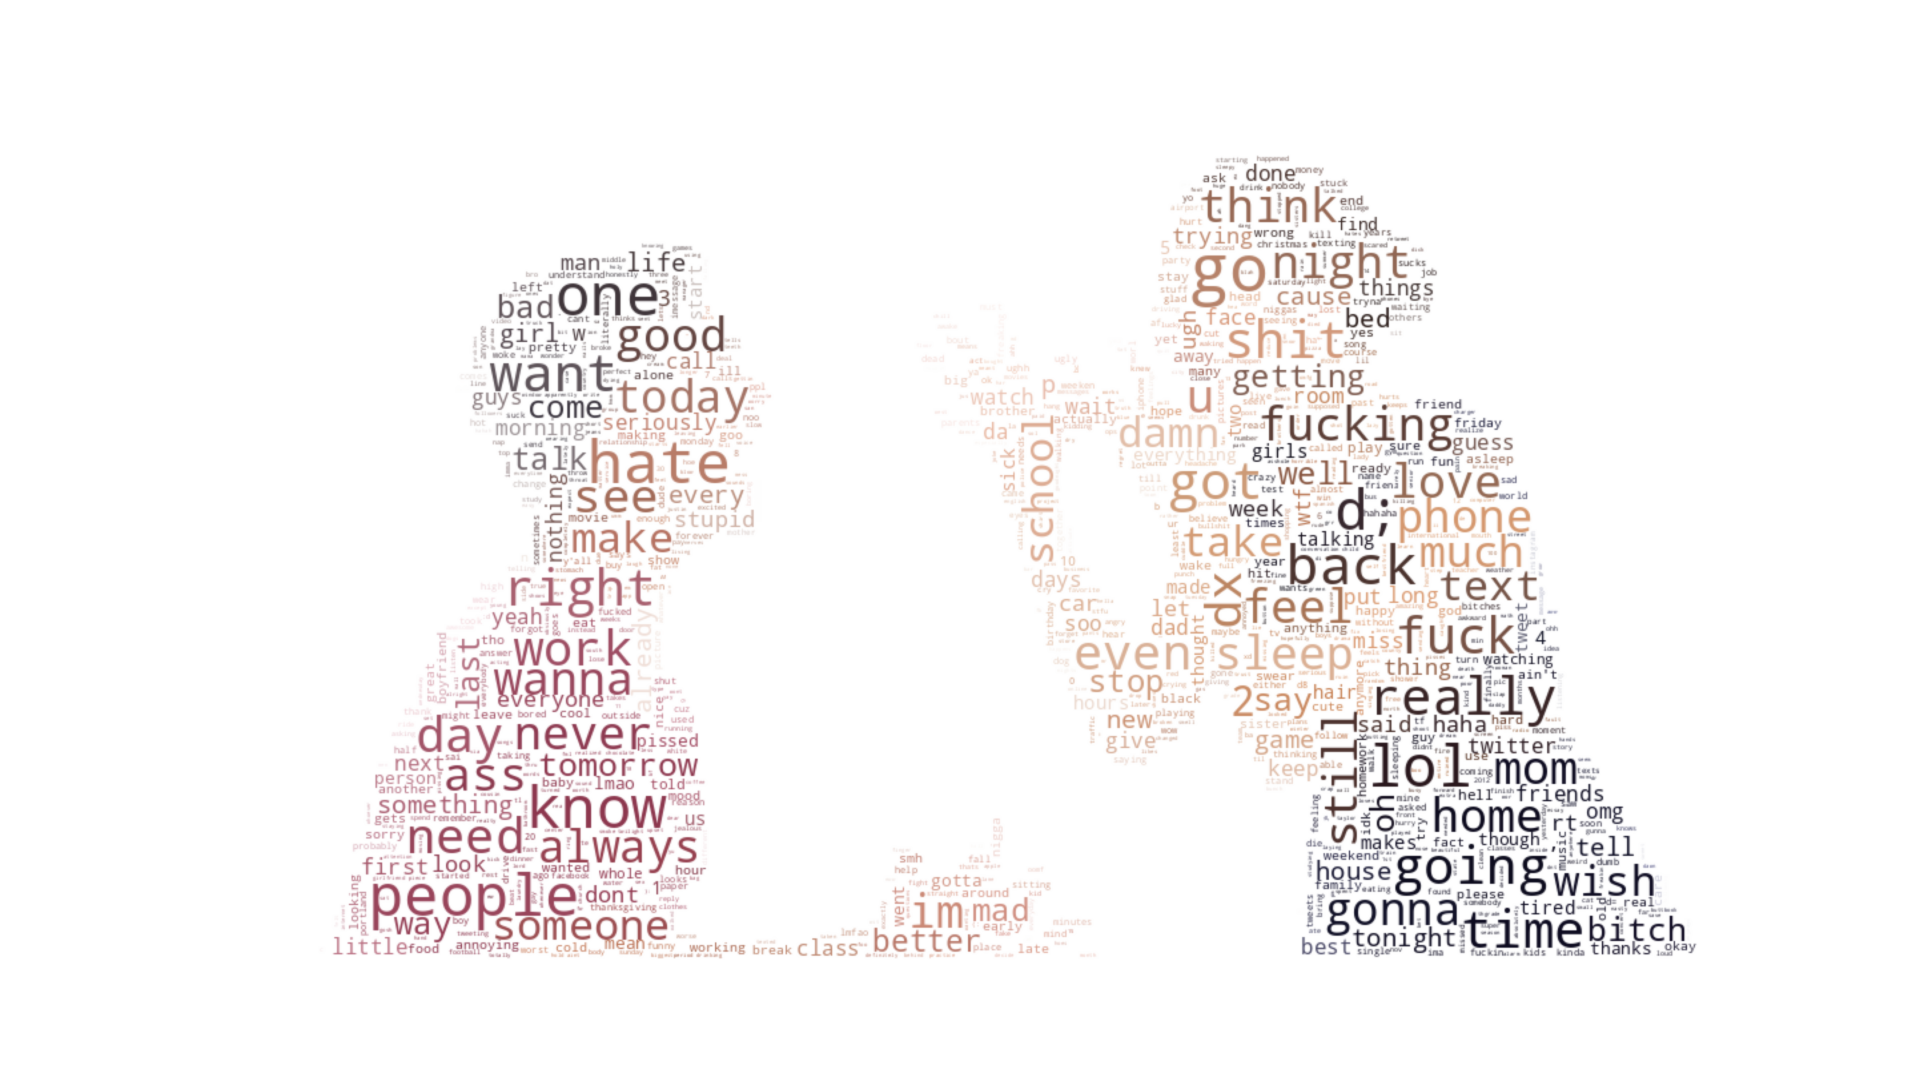
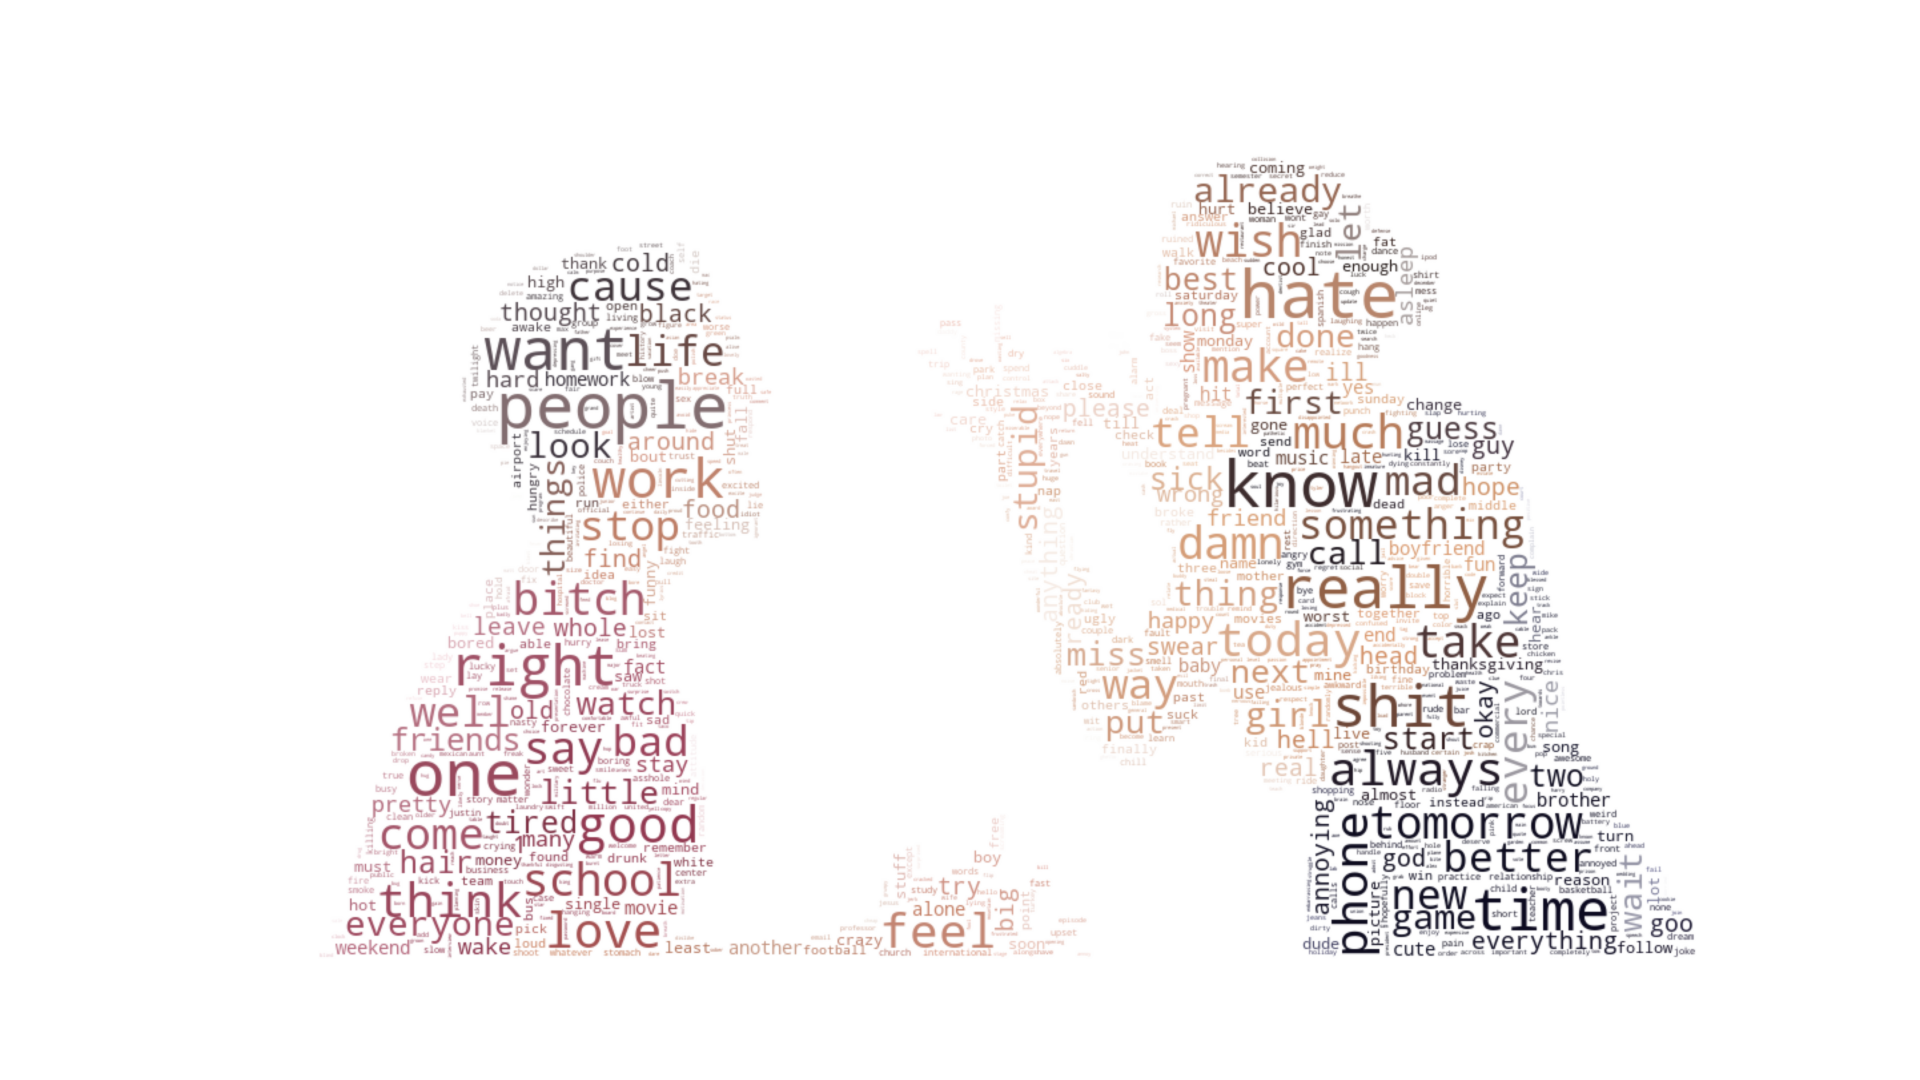
MySQL: optimizations, wordcloud and tests done

Changed region(s): [[0.5, 0.1528, 0.9062, 0.8861], [0.1562, 0.2139, 0.5625, 0.8861]]

diff --git a/src/dao/dao_mysql_db.py b/src/dao/dao_mysql_db.py
@@ -50,6 +50,7 @@ class DaoMySQLDB:
         self.list_new_lexicon = None
         self.list_emojis = None
         self.list_emoticons = None
+        self.list_hashtags = None
 
     def __connect_db(self):
         """
@@ -359,7 +360,7 @@ class DaoMySQLDB:
         Inserts records into 'word' table
         @param tweets: list of tweets
         """
-        # TODO: make one func easy_executemany(query: str, params: list(tuple()), message: str)
+        # TODO: [optional] make one func easy_executemany(query: str, params: list(tuple()), message: str)
         with self.__connect_db() as connection:
             with connection.cursor() as cursor:
                 cursor.execute('SET NAMES utf8mb4')
@@ -391,7 +392,6 @@ class DaoMySQLDB:
 
                 for word in sentiments_words:
                     for index, sentiment in enumerate(sentiments_words[word]):
-                        # TODO: change sentiment from int to string
                         sql_belongs_to_params += [(sentiment + 1, self.list_words[word])]
 
                 print("\n\tBuilding `belongs_to` table...")
@@ -442,7 +442,6 @@ class DaoMySQLDB:
         Inserts records into 'twitter_message' table and relations with 'sentiment' table
         @param sentiments_tweets: set with sentiments as keys and list of tweets as values
         """
-        # TODO: optimize func
         all_tweets = [tweet for sentiment in sentiments_tweets for tweet in sentiments_tweets[sentiment]]
         self.__insert_tweets(all_tweets)
         list_tweets = self.get_tweets_list()
@@ -608,7 +607,6 @@ class DaoMySQLDB:
         Inserts the connection between tweets and tokens
         @param tweets_tokens: {tweet_id: [tokens]...}
         """
-        # TODO: optimize func
         if self.list_words is None:
             self.list_words = self.get_tokens("word")
         if self.list_new_lexicon is None:
@@ -617,12 +615,15 @@ class DaoMySQLDB:
             self.list_emojis = self.get_tokens("emoji")
         if self.list_emoticons is None:
             self.list_emoticons = self.get_tokens("emoticon")
+        if self.list_hashtags is None:
+            self.list_hashtags = self.get_tokens("hashtag")
 
         # data_token = {tweet_id: {token_id: count,...},...}
         data_word = {}
         data_new = {}
         data_emoji = {}
         data_emoticon = {}
+        data_hashtag = {}
 
         for tweet_id in tweets_tokens:
             for token in tweets_tokens[tweet_id]:
@@ -650,6 +651,14 @@ class DaoMySQLDB:
                     else:
                         data_emoticon[tweet_id][self.list_emoticons[token]] += 1
 
+                elif token in self.list_hashtags:
+                    if tweet_id not in data_hashtag or self.list_hashtags[token] not in data_hashtag[tweet_id]:
+                        if tweet_id not in data_hashtag:
+                            data_hashtag[tweet_id] = {}
+                        data_hashtag[tweet_id][self.list_hashtags[token]] = 1
+                    else:
+                        data_hashtag[tweet_id][self.list_hashtags[token]] += 1
+
                 elif token in self.list_new_lexicon:
                     if tweet_id not in data_new or self.list_new_lexicon[token] not in data_new[tweet_id]:
                         if tweet_id not in data_new:
@@ -662,7 +671,8 @@ class DaoMySQLDB:
             "word": data_word,
             "new_lexicon": data_new,
             "emoji": data_emoji,
-            "emoticon": data_emoticon
+            "emoticon": data_emoticon,
+            "hashtag": data_hashtag
         }
         self.insert_tweets_tokens(data_to_insert)
 
@@ -719,6 +729,8 @@ class DaoMySQLDB:
         """
         param = "count" if counts else "freq_perc"
         data = {}
+        if token_type == "words":
+            token_type = "word"
         with self.__connect_db() as connection:
             with connection.cursor() as cursor:
                 sql = f"SELECT `{token_type}`, `{param}` " \
@@ -748,7 +760,6 @@ class DaoMySQLDB:
         @param emoji_datasets: a list of dicts for every emoji_frequency sentiment
         @param emoticon_datasets: a list of dicts for every emoticon_frequency sentiment
         """
-        # TODO: optimize func
         if self.list_words is None:
             self.list_words = self.get_tokens("word")
         if self.list_emojis is None:
@@ -758,7 +769,7 @@ class DaoMySQLDB:
 
         hashtags_to_insert = [hashtag for hashtags in hashtag_datasets for hashtag in hashtags]
         self.insert_hashtags(list(dict.fromkeys(hashtags_to_insert)))
-        list_hashtag = self.get_tokens("hashtag")
+        self.list_hashtags = self.get_tokens("hashtag")
         sentiments_count = {sentiment: self.__get_word_numbers(sentiment) for sentiment in sentiments}
 
         for index, sentiment in enumerate(sentiments):
@@ -814,8 +825,8 @@ class DaoMySQLDB:
                                  "VALUES (%s, %s, %s)"
                     sql_params = []
                     for hashtag in hashtag_datasets[index]:
-                        if hashtag in list_hashtag:
-                            sql_params += [(hashtag_datasets[index][hashtag], id_sentiment, list_hashtag[hashtag])]
+                        if hashtag in self.list_hashtags:
+                            sql_params += [(hashtag_datasets[index][hashtag], id_sentiment, self.list_hashtags[hashtag])]
                     if sql_params is not []:
                         print("\n\tBuilding `hashtag_in_sentiment` table...")
                         _executemany_statements(cursor, sql_insert, sql_params)

diff --git a/src/wordcloudgenerator.py b/src/wordcloudgenerator.py
@@ -16,14 +16,14 @@ class WordCloudCreator:
     def generate(self):
         sentiments = ['anger', 'anticipation', 'disgust', 'fear', 'joy', 'sadness', 'surprise', 'trust']
         for sentiment in sentiments:
-            self.__generate_emotion_plot(self.dao.get_counts(sentiment, '_words'), f'{sentiment}')
+            self.__generate_emotion_plot(self.dao.get_counts(sentiment, 'words'), f'{sentiment}')
             if sentiment == 'anger' or sentiment == 'fear':
-                self.__generate_emotion_plot(self.dao.get_counts(sentiment, '_emoji'), f'{sentiment}_emoji',
+                self.__generate_emotion_plot(self.dao.get_counts(sentiment, 'emoji'), f'{sentiment}_emoji',
                                              emoji=True, extension='png')
             else:
-                self.__generate_emotion_plot(self.dao.get_counts(sentiment, '_emoji'), f'{sentiment}_emoji',
+                self.__generate_emotion_plot(self.dao.get_counts(sentiment, 'emoji'), f'{sentiment}_emoji',
                                              emoji=True)
-            self.__generate_emoticon_plot(self.dao.get_counts(sentiment, '_emoticon'), f'{sentiment}')
+            self.__generate_emoticon_plot(self.dao.get_counts(sentiment, 'emoticon'), f'{sentiment}')
 
     def __preprocess_wordlist(self, wordlist):
         [wordlist.pop(key) for key in self.__get_stopwords() if key in wordlist]

diff --git a/src/start.py b/src/start.py
@@ -39,23 +39,17 @@ def test_query(db_type="MongoDB"):
 
 
 if __name__ == '__main__':
-    # dao = start_comparison("MongoDB")
-    dao2 = start_comparison("MySQL")
-    #
-    # test_query()
-    # test_query("MySQL")
-    #
-    # # TODO: Wordclouds from MySQL too
-    # if input("Do you want to generate the Wordclouds? This could take 10 minutes or more! [y/N] ").lower() == "y":
-    #     wordcl = WordCloudCreator(dao)
-    #     wordcl.generate()
+    # TODO: test  MongoDB
+    # TODO: compare MySQL and MongoDB data
+    # db_type = "MySQL"  # MongoDB / MySQL
+    # dao = start_comparison(db_type)
+    # test_query(db_type)
 
-    # graph_data = {
-    #     "joy": 24.5,
-    #     "anger": 86,
-    #     "fear": 50
-    # }
-    # sentiment_percentages = Dao(False).get_sentiment_percentages()
+    if input("Do you want to generate the Wordclouds? This could take 10 minutes or more! [y/N] ").lower() == "y":
+        wordcl = WordCloudCreator(Dao(True))
+        wordcl.generate()
+
+    # sentiment_percentages = Dao(True).get_sentiment_percentages()
     # graph_data = {sentiment: sentiment_percentages[sentiment][0] for sentiment in sentiment_percentages}
     # build_histogram_matplotlib(graph_data, '% words [lex resources] in tweets')
 

diff --git a/src/natural.py b/src/natural.py
@@ -300,8 +300,8 @@ def quickstart(dao: Dao):
                         sadness_hashtags, surprise_hashtags, trust_hashtags]
 
     dao.dump_new_lexicon(create_new_lexicon(word_datasets))
-    dao.add_tweets_tokens(tweets_tokens)  # used in relational db
     dao.build_sentiments(word_datasets, emoji_datasets, emoticons_datasets, hashtag_datasets)
+    dao.add_tweets_tokens(tweets_tokens)  # used in relational db
 
     if input("Do you want to create the definitions of the words? (this can take up to 2 hours) [y/N] ").lower() == "y":
         create_definitions(word_datasets, dao)  # toml files

diff --git a/src/dao/dao_mongo_db.py b/src/dao/dao_mongo_db.py
@@ -118,7 +118,7 @@ class DaoMongoDB:
         return self.get_document(sentiment)
 
     def get_counts(self, sentiment, token_type: str = ""):
-        sentiments_table = self.database[f'count{token_type}']
+        sentiments_table = self.database[f'count_{token_type}']
         return sentiments_table.find_one({}, {sentiment})[sentiment]
 
     def get_collection(self, collection_name):
